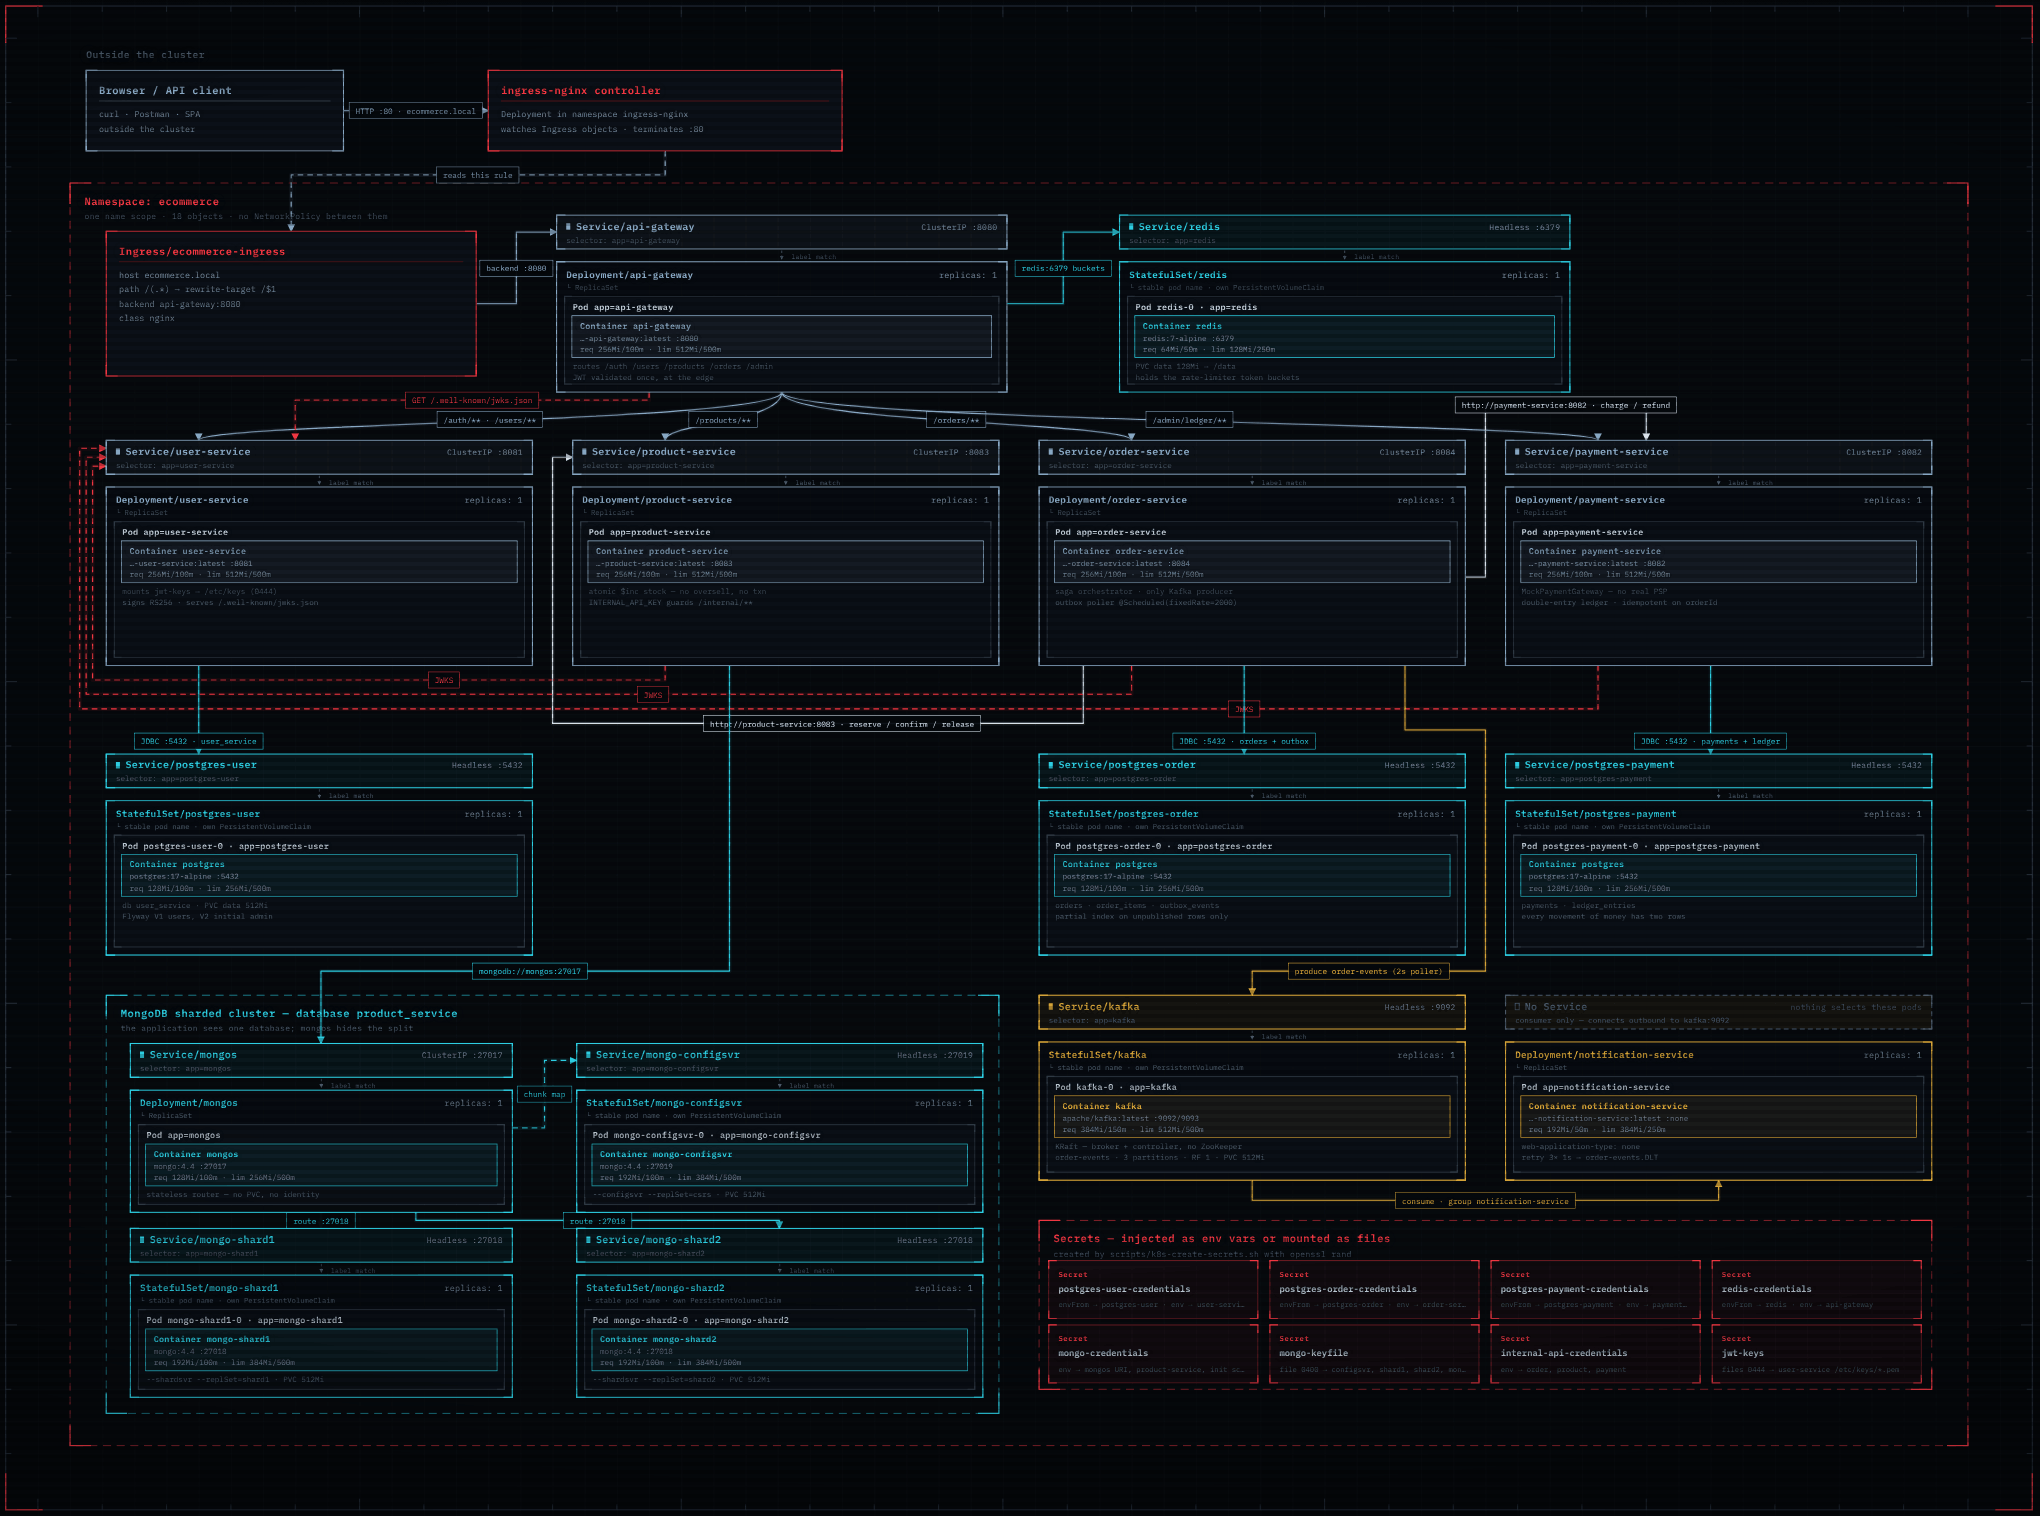
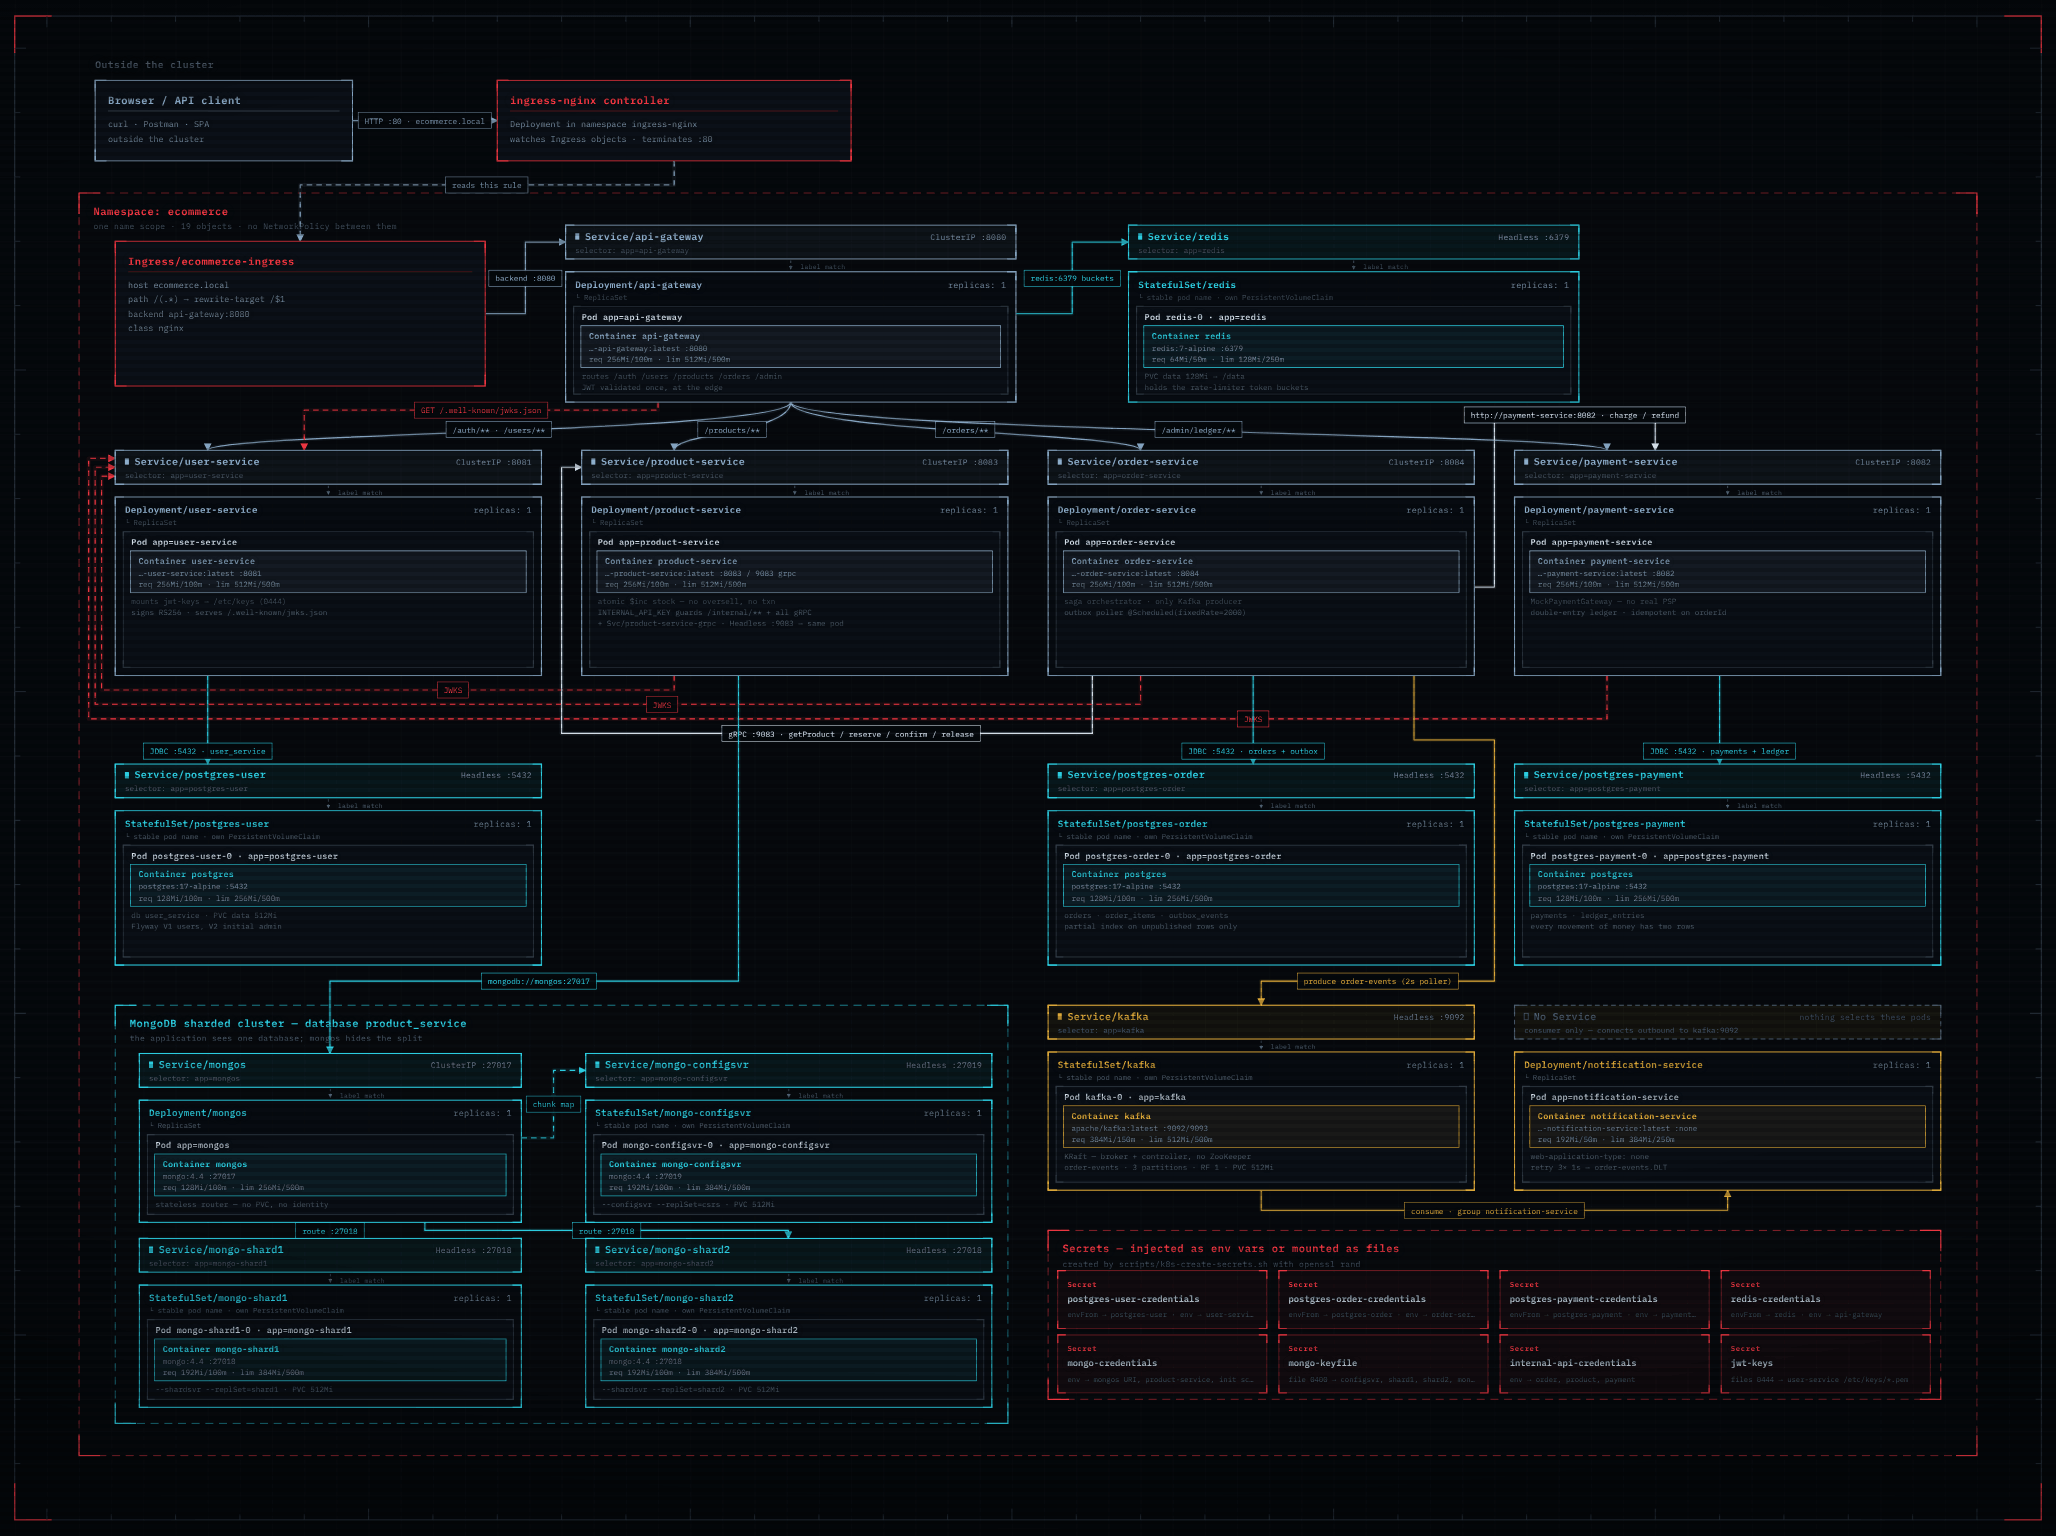
docs: update architecture diagram and README for monitoring stack

diff --git a/docs/ecommerce-schema.html b/docs/ecommerce-schema.html
@@ -232,10 +232,10 @@
             cont: {
                 n: 'product-service',
                 i: '\u2026-product-service:latest',
-                p: 8083,
+                p: '8083 / 9083 grpc',
                 r: 'req 256Mi/100m \u00b7 lim 512Mi/500m'
             },
-            extra: ['atomic $inc stock \u2014 no oversell, no txn', 'INTERNAL_API_KEY guards /internal/**']
+            extra: ['atomic $inc stock \u2014 no oversell, no txn', 'INTERNAL_API_KEY guards /internal/** + all gRPC', '+ Svc/product-service-grpc \u00b7 Headless :9083 \u2192 same pod']
         },
 
         {
@@ -349,7 +349,7 @@
             w: 2360,
             h: 1570,
             l: 'Namespace: ecommerce',
-            s: 'one name scope \u00b7 18 objects \u00b7 no NetworkPolicy between them',
+            s: 'one name scope \u00b7 19 objects \u00b7 no NetworkPolicy between them',
             c: C.red
         },
         {
@@ -492,7 +492,7 @@
             c: 'sync',
             pts: [[1300, 780], [1300, 852], [640, 852], [640, 521], [665, 521]],
             lp: [1000, 852],
-            l: 'http://product-service:8083 \u00b7 reserve / confirm / release'
+            l: 'gRPC :9083 \u00b7 getProduct / reserve / confirm / release'
         },
         {
             f: 'order-service',

diff --git a/README.md b/README.md
@@ -76,7 +76,7 @@ docker compose --env-file .env.docker up --build -d
 **If that struggles** — Docker Desktop can choke trying to build six JVM images and start 10+ containers all at once, especially on constrained CPU/network. Bring the stack up in stages instead:
 
 ```bash
-# 1. Infrastructure first — everything else depends on these being healthy
+# 1. Infrastructure first
 docker compose --env-file .env.docker up -d postgres-user \
   postgres-payment postgres-order mongo-product redis kafka discovery-server
 
@@ -88,7 +88,7 @@ docker compose --env-file .env.docker build order-service
 docker compose --env-file .env.docker build api-gateway
 docker compose --env-file .env.docker build notification-service
 
-# 3. Start services in dependency order — user-service first
+# 3. Start services in dependency order
 docker compose --env-file .env.docker up -d user-service
 docker compose --env-file .env.docker up -d payment-service
 docker compose --env-file .env.docker up -d product-service
@@ -391,18 +391,5 @@ minikube service api-gateway -n ecommerce --url
 That URL is a direct route to `api-gateway`, equivalent to `http://localhost:8080` in the other two options.
 
 </details>
-
----
-
-## | Architecture
-
-| Service | Port | Responsibility |
-| :--- | :--- | :--- |
-| **discovery-server** | `8761` | Eureka service registry |
-| **api-gateway** | `8080` | Single entry point, request routing (`lb://`), JWT validation at the edge, Redis-backed rate limiting |
-| **user-service** | `8081` | Auth (register/login/refresh), user management, JWT issuing via RSA + JWKS |
-| **payment-service** | `8082` | Payment processing |
-| **product-service** | `8083` | Product catalog |
-| **order-service** | `8084` | Order management |
 
 ---
